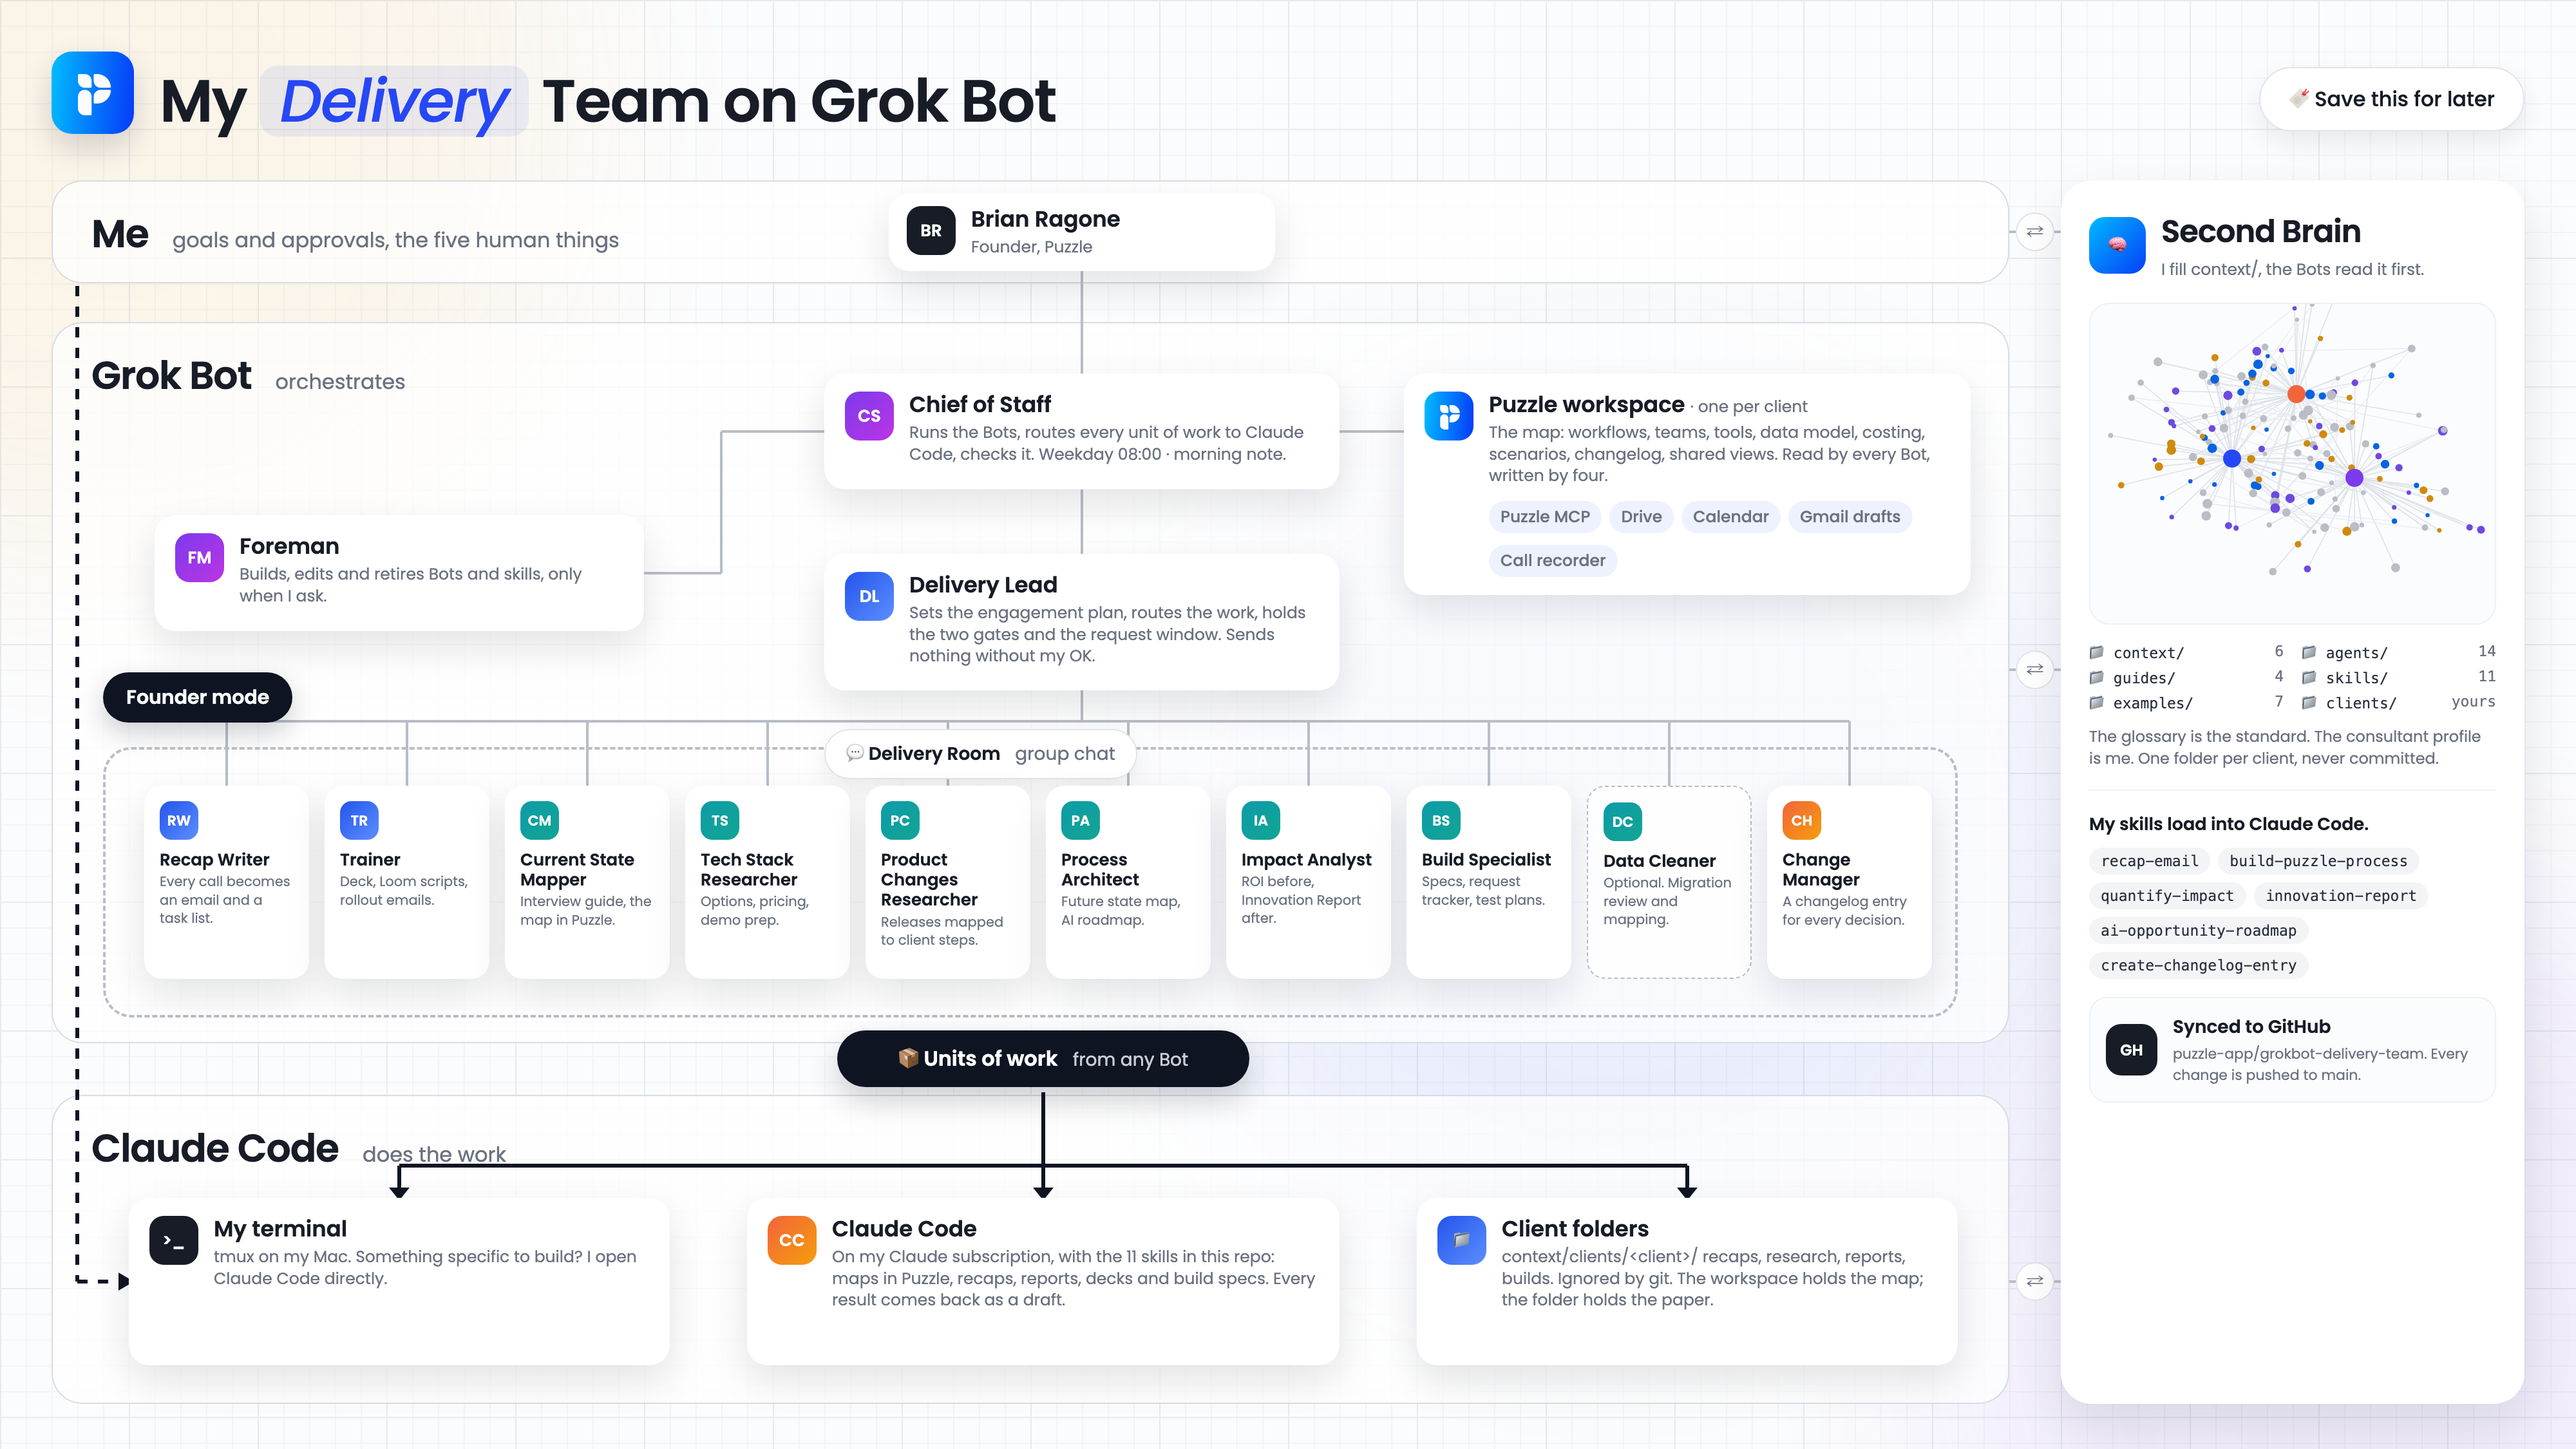
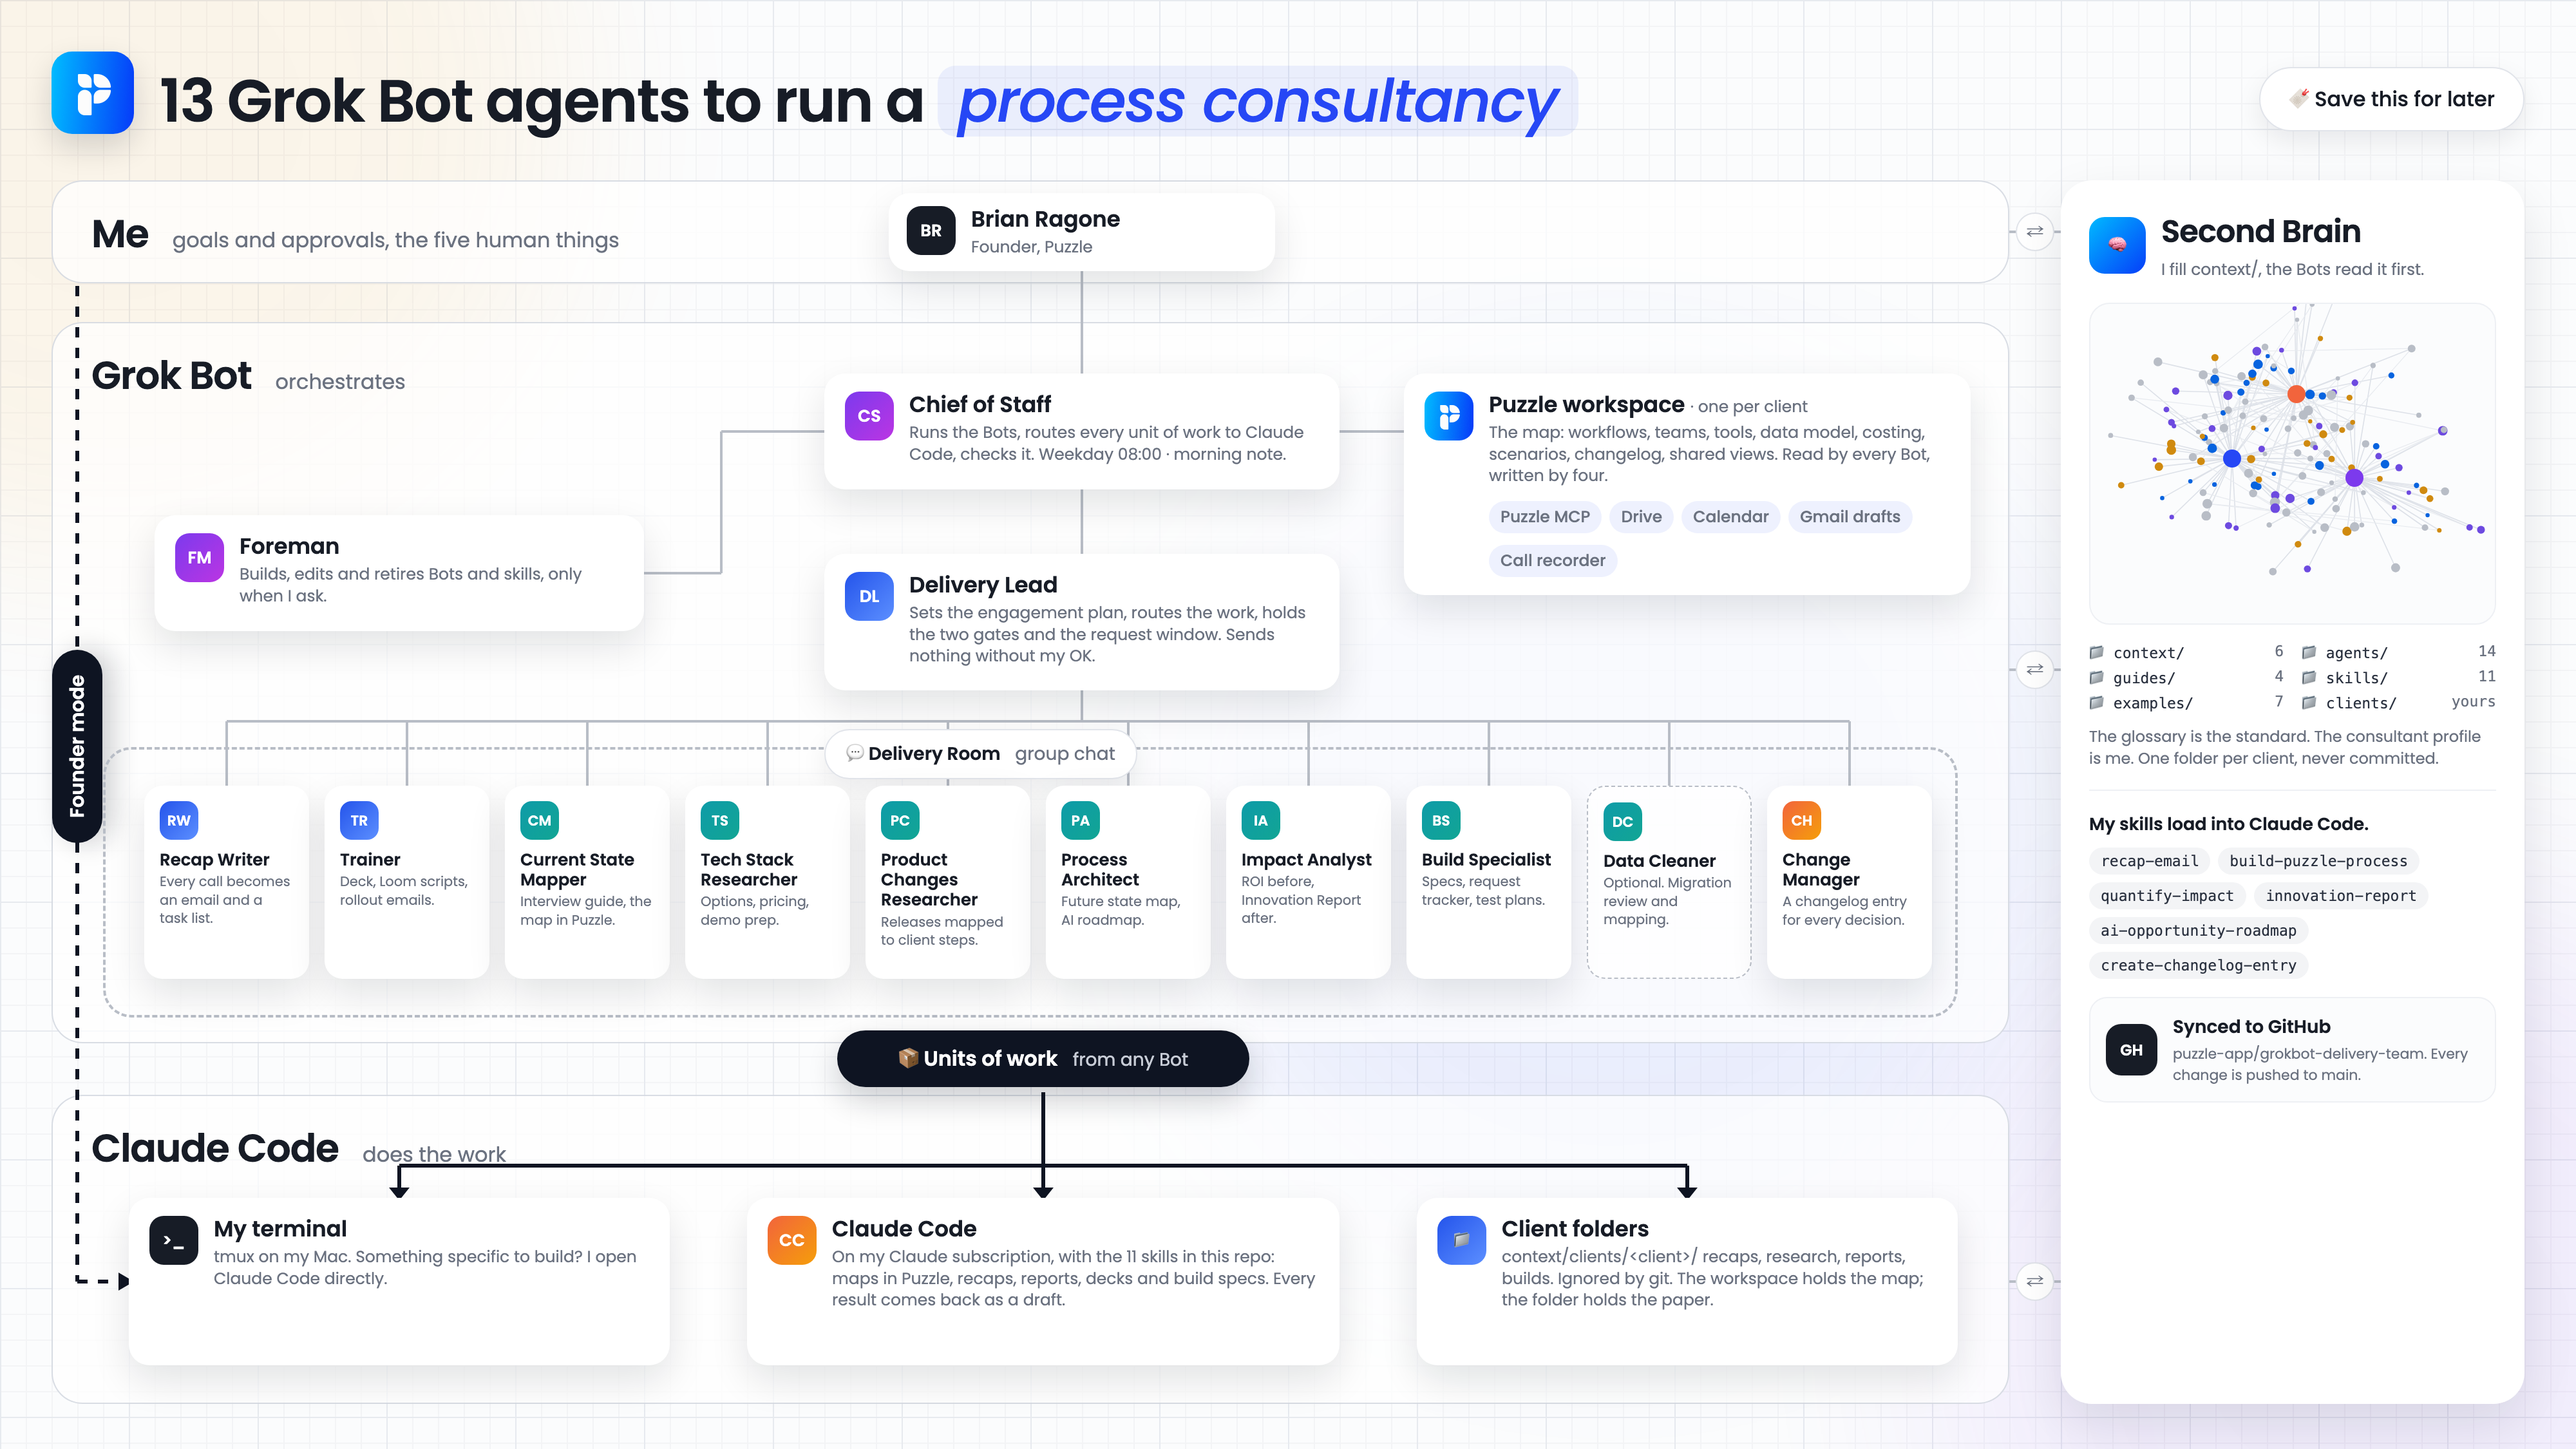
System map: vertical Founder mode label, title names the audience

Changed region(s): [[0.0625, 0.0311, 0.625, 0.0933], [0.0, 0.4356, 0.125, 0.5911]]

diff --git a/assets/build/org-chart.html b/assets/build/org-chart.html
@@ -98,13 +98,13 @@
   </svg>
 
   <img class="abs logo" src="puzzle-logo.png" alt="">
-  <div class="abs title">My <span class="accent">Delivery</span> Team on Grok Bot</div>
+  <div class="abs title">13 Grok Bot agents to run a <span class="accent">process consultancy</span></div>
   <div class="abs save">🔖 Save this for later</div>
 
   <!-- Me -->
   <div class="abs band" style="left:40px;top:140px;width:1520px;height:80px"><div class="lbl">Me <span>goals and approvals, the five human things</span></div></div>
   <div class="card you" style="left:690px;top:150px;width:300px;padding:10px 14px"><div class="mono" id="avatar">BR</div><div><b>Brian Ragone</b><span>Founder, Puzzle</span></div></div>
-  <div class="mode" style="left:80px;top:522px">Founder mode</div>
+  <div class="mode" style="left:-15px;top:560px;width:150px;text-align:center;transform:rotate(-90deg);transform-origin:center">Founder mode</div>
 
   <!-- Grok Bot -->
   <div class="abs band" style="left:40px;top:250px;width:1520px;height:560px"><div class="lbl">Grok Bot <span>orchestrates</span></div></div>
